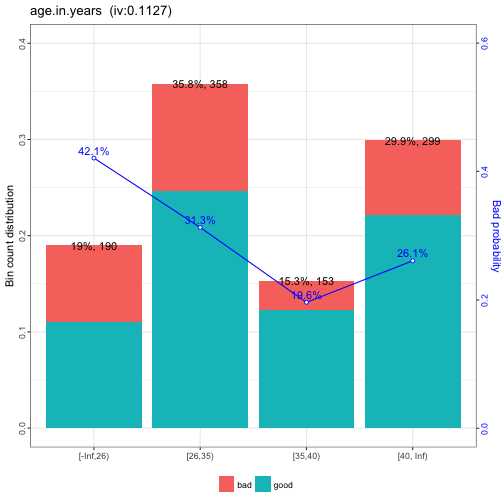
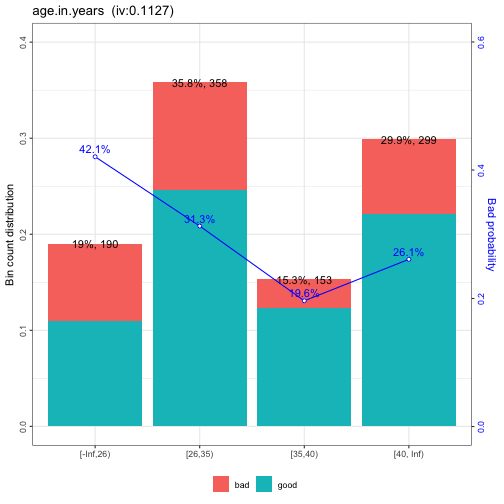
L

diff --git a/slide/20171115scorecard/index.html b/slide/20171115scorecard/index.html
@@ -388,10 +388,10 @@ lapply(dt_list, dim)
 
 ```
 ## $train
-## [1] 700  15
+## [1] 683  15
 ## 
 ## $test
-## [1] 300  15
+## [1] 317  15
 ```
 
 ---
@@ -585,14 +585,14 @@ test_woe = woebin_ply(
 
 ```
 ##    age.in.years age.in.years_woe
-## 1:           30          0.06047
-## 2:           37         -0.56369
-## 3:           23          0.52884
-## 4:           25          0.52884
-## 5:           34          0.06047
-## 6:           50         -0.19416
-## 7:           33          0.06047
-## 8:           32          0.06047
+## 1:           22          0.52884
+## 2:           49         -0.19416
+## 3:           45         -0.19416
+## 4:           53         -0.19416
+## 5:           35         -0.56369
+## 6:           61         -0.19416
+## 7:           28          0.06047
+## 8:           24          0.52884
 ```
 
 ]
@@ -684,47 +684,47 @@ summary(m2)$coefficients
 
 ```
 ##                                                         Estimate
-## (Intercept)                                              -0.8556
-## status.of.existing.checking.account_woe                   0.6375
-## duration.in.month_woe                                     0.5348
-## credit.history_woe                                        0.4941
-## purpose_woe                                               1.0876
-## credit.amount_woe                                         1.0194
-## savings.account.and.bonds_woe                             0.9080
-## present.employment.since_woe                              0.6838
-## installment.rate.in.percentage.of.disposable.income_woe   2.1865
-## personal.status.and.sex_woe                               1.3552
-## property_woe                                              0.8475
-## age.in.years_woe                                          0.9261
-## other.installment.plans_woe                               0.6230
+## (Intercept)                                              -0.8544
+## status.of.existing.checking.account_woe                   0.8874
+## duration.in.month_woe                                     0.7021
+## credit.history_woe                                        0.6365
+## purpose_woe                                               0.7846
+## credit.amount_woe                                         0.8315
+## savings.account.and.bonds_woe                             1.1176
+## present.employment.since_woe                              0.6723
+## installment.rate.in.percentage.of.disposable.income_woe   1.8997
+## other.debtors.or.guarantors_woe                           1.7937
+## age.in.years_woe                                          0.6365
+## other.installment.plans_woe                               0.9320
+## housing_woe                                               0.5385
 ##                                                         Std. Error z value
-## (Intercept)                                                0.09994  -8.561
-## status.of.existing.checking.account_woe                    0.12678   5.028
-## duration.in.month_woe                                      0.20009   2.673
-## credit.history_woe                                         0.18001   2.745
-## purpose_woe                                                0.26026   4.179
-## credit.amount_woe                                          0.25486   4.000
-## savings.account.and.bonds_woe                              0.24003   3.783
-## present.employment.since_woe                               0.33525   2.040
-## installment.rate.in.percentage.of.disposable.income_woe    0.72834   3.002
-## personal.status.and.sex_woe                                0.49037   2.764
-## property_woe                                               0.31028   2.731
-## age.in.years_woe                                           0.30772   3.009
-## other.installment.plans_woe                                0.39668   1.571
+## (Intercept)                                                 0.1030  -8.295
+## status.of.existing.checking.account_woe                     0.1360   6.524
+## duration.in.month_woe                                       0.2000   3.511
+## credit.history_woe                                          0.1944   3.274
+## purpose_woe                                                 0.2595   3.024
+## credit.amount_woe                                           0.2553   3.257
+## savings.account.and.bonds_woe                               0.2479   4.508
+## present.employment.since_woe                                0.3528   1.906
+## installment.rate.in.percentage.of.disposable.income_woe     0.7332   2.591
+## other.debtors.or.guarantors_woe                             0.7672   2.338
+## age.in.years_woe                                            0.2996   2.125
+## other.installment.plans_woe                                 0.4103   2.272
+## housing_woe                                                 0.3434   1.568
 ##                                                          Pr(&gt;|z|)
-## (Intercept)                                             1.115e-17
-## status.of.existing.checking.account_woe                 4.945e-07
-## duration.in.month_woe                                   7.523e-03
-## credit.history_woe                                      6.055e-03
-## purpose_woe                                             2.928e-05
-## credit.amount_woe                                       6.341e-05
-## savings.account.and.bonds_woe                           1.551e-04
-## present.employment.since_woe                            4.139e-02
-## installment.rate.in.percentage.of.disposable.income_woe 2.682e-03
-## personal.status.and.sex_woe                             5.718e-03
-## property_woe                                            6.306e-03
-## age.in.years_woe                                        2.617e-03
-## other.installment.plans_woe                             1.163e-01
+## (Intercept)                                             1.089e-16
+## status.of.existing.checking.account_woe                 6.853e-11
+## duration.in.month_woe                                   4.466e-04
+## credit.history_woe                                      1.061e-03
+## purpose_woe                                             2.495e-03
+## credit.amount_woe                                       1.126e-03
+## savings.account.and.bonds_woe                           6.531e-06
+## present.employment.since_woe                            5.670e-02
+## installment.rate.in.percentage.of.disposable.income_woe 9.570e-03
+## other.debtors.or.guarantors_woe                         1.939e-02
+## age.in.years_woe                                        3.362e-02
+## other.installment.plans_woe                             2.311e-02
+## housing_woe                                             1.169e-01
 ```
 
 ---
@@ -909,18 +909,12 @@ data.table::rbindlist(card, fill=TRUE)[c(1,37:40),1:4]
 ```
 
 ```
-##        variable                                                  bin
-## 1:   basepoints                                                   NA
-## 2:     property car or other, not in attribute Savings account/bonds
-## 3:     property                                unknown / no property
-## 4: age.in.years                                            [-Inf,26)
-## 5: age.in.years                                              [26,35)
-##        woe points
-## 1:      NA    449
-## 2: 0.03419     -2
-## 3: 0.58608    -36
-## 4: 0.52884    -35
-## 5: 0.06047     -4
+##                   variable           bin     woe points
+## 1:              basepoints          &lt;NA&gt;      NA    449
+## 2:            age.in.years     [40, Inf) -0.1942      9
+## 3: other.installment.plans bank%,%stores  0.4776    -32
+## 4: other.installment.plans          none -0.1212      8
+## 5:                 housing          rent  0.4044    -16
 ```
 
 ---
@@ -937,8 +931,8 @@ str(train_score)
 ```
 
 ```
-## Classes 'data.table' and 'data.frame':	700 obs. of  1 variable:
-##  $ score: num  533 673 541 487 451 478 450 494 601 456 ...
+## Classes 'data.table' and 'data.frame':	683 obs. of  1 variable:
+##  $ score: num  334 614 433 318 546 698 351 217 489 416 ...
 ##  - attr(*, ".internal.selfref")=&lt;externalptr&gt;
 ```
 
@@ -949,20 +943,20 @@ str(train_score2)
 ```
 
 ```
-## Classes 'data.table' and 'data.frame':	700 obs. of  13 variables:
-##  $ status.of.existing.checking.account_points                : num  54 19 -28 19 54 54 -28 54 54 54 ...
-##  $ duration.in.month_points                                  : num  -20 13 51 13 -20 -4 -4 -44 13 13 ...
-##  $ credit.history_points                                     : num  26 -3 -3 -3 26 -44 26 -3 -3 -3 ...
-##  $ purpose_points                                            : num  63 32 63 32 -22 -22 32 32 32 -22 ...
-##  $ credit.amount_points                                      : num  -86 19 -2 19 -29 54 -2 -29 19 -2 ...
-##  $ savings.account.and.bonds_points                          : num  50 50 50 -18 -18 -18 -18 50 -18 -18 ...
-##  $ present.employment.since_points                           : num  -2 12 -21 -21 12 19 -2 12 -2 -2 ...
-##  $ installment.rate.in.percentage.of.disposable.income_points: num  -16 25 40 25 -16 -16 -16 -16 25 -16 ...
-##  $ personal.status.and.sex_points                            : num  16 16 -26 -26 16 16 14 16 16 -26 ...
-##  $ property_points                                           : num  -2 -2 -2 28 -2 -2 -2 -2 -2 28 ...
-##  $ age.in.years_points                                       : num  -4 38 -35 -35 -4 13 -4 -4 13 -4 ...
-##  $ other.installment.plans_points                            : num  5 5 5 5 5 -21 5 -21 5 5 ...
-##  $ score                                                     : num  533 673 541 487 451 478 450 494 601 456 ...
+## Classes 'data.table' and 'data.frame':	683 obs. of  13 variables:
+##  $ status.of.existing.checking.account_points                : num  -39 75 -39 -39 75 75 -39 -39 -39 -39 ...
+##  $ duration.in.month_points                                  : num  -57 18 -27 -6 -27 18 -6 -57 18 -6 ...
+##  $ credit.history_points                                     : num  -4 34 -4 -4 -4 -4 34 -4 -4 34 ...
+##  $ purpose_points                                            : num  23 -16 -16 -16 -16 23 -16 -16 23 -16 ...
+##  $ credit.amount_points                                      : num  -23 15 -23 -23 -23 15 -23 -23 44 -2 ...
+##  $ savings.account.and.bonds_points                          : num  -22 -22 -22 -22 61 61 -22 -22 -22 -22 ...
+##  $ present.employment.since_points                           : num  -2 19 19 -2 -2 19 -21 -21 -2 11 ...
+##  $ installment.rate.in.percentage.of.disposable.income_points: num  21 21 21 -14 21 21 -14 -14 34 -14 ...
+##  $ other.debtors.or.guarantors_points                        : num  -4 -4 76 -4 -4 -4 -4 -4 -4 -4 ...
+##  $ age.in.years_points                                       : num  -24 9 9 9 26 9 -3 -24 -24 9 ...
+##  $ other.installment.plans_points                            : num  8 8 8 8 8 8 8 8 8 8 ...
+##  $ housing_points                                            : num  8 8 -18 -18 -18 8 8 -16 8 8 ...
+##  $ score                                                     : num  334 614 433 318 546 698 351 217 489 416 ...
 ##  - attr(*, ".internal.selfref")=&lt;externalptr&gt;
 ```
 
@@ -1006,103 +1000,103 @@ str(train_score2)
  &lt;/thead&gt;
 &lt;tbody&gt;
   &lt;tr&gt;
-   &lt;td style="text-align:left;"&gt; [100,250) &lt;/td&gt;
-   &lt;td style="text-align:right;"&gt; 0.0114 &lt;/td&gt;
-   &lt;td style="text-align:right;"&gt; 0.0200 &lt;/td&gt;
-   &lt;td style="text-align:right;"&gt; -0.0086 &lt;/td&gt;
-   &lt;td style="text-align:right;"&gt; -0.5596 &lt;/td&gt;
-   &lt;td style="text-align:right;"&gt; 0.0048 &lt;/td&gt;
-   &lt;td style="text-align:right;"&gt; 0.0333 &lt;/td&gt;
+   &lt;td style="text-align:left;"&gt; [150,250) &lt;/td&gt;
+   &lt;td style="text-align:right;"&gt; 0.0117 &lt;/td&gt;
+   &lt;td style="text-align:right;"&gt; 0.0158 &lt;/td&gt;
+   &lt;td style="text-align:right;"&gt; -0.0041 &lt;/td&gt;
+   &lt;td style="text-align:right;"&gt; -0.2976 &lt;/td&gt;
+   &lt;td style="text-align:right;"&gt; 0.0012 &lt;/td&gt;
+   &lt;td style="text-align:right;"&gt; 0.0311 &lt;/td&gt;
   &lt;/tr&gt;
   &lt;tr&gt;
    &lt;td style="text-align:left;"&gt; [250,300) &lt;/td&gt;
-   &lt;td style="text-align:right;"&gt; 0.0357 &lt;/td&gt;
-   &lt;td style="text-align:right;"&gt; 0.0267 &lt;/td&gt;
-   &lt;td style="text-align:right;"&gt; 0.0090 &lt;/td&gt;
-   &lt;td style="text-align:right;"&gt; 0.2921 &lt;/td&gt;
-   &lt;td style="text-align:right;"&gt; 0.0026 &lt;/td&gt;
-   &lt;td style="text-align:right;"&gt; 0.0333 &lt;/td&gt;
+   &lt;td style="text-align:right;"&gt; 0.0410 &lt;/td&gt;
+   &lt;td style="text-align:right;"&gt; 0.0347 &lt;/td&gt;
+   &lt;td style="text-align:right;"&gt; 0.0063 &lt;/td&gt;
+   &lt;td style="text-align:right;"&gt; 0.1667 &lt;/td&gt;
+   &lt;td style="text-align:right;"&gt; 0.0010 &lt;/td&gt;
+   &lt;td style="text-align:right;"&gt; 0.0311 &lt;/td&gt;
   &lt;/tr&gt;
   &lt;tr&gt;
    &lt;td style="text-align:left;"&gt; [300,350) &lt;/td&gt;
-   &lt;td style="text-align:right;"&gt; 0.0914 &lt;/td&gt;
-   &lt;td style="text-align:right;"&gt; 0.0633 &lt;/td&gt;
-   &lt;td style="text-align:right;"&gt; 0.0281 &lt;/td&gt;
-   &lt;td style="text-align:right;"&gt; 0.3671 &lt;/td&gt;
-   &lt;td style="text-align:right;"&gt; 0.0103 &lt;/td&gt;
-   &lt;td style="text-align:right;"&gt; 0.0333 &lt;/td&gt;
+   &lt;td style="text-align:right;"&gt; 0.0849 &lt;/td&gt;
+   &lt;td style="text-align:right;"&gt; 0.0883 &lt;/td&gt;
+   &lt;td style="text-align:right;"&gt; -0.0034 &lt;/td&gt;
+   &lt;td style="text-align:right;"&gt; -0.0394 &lt;/td&gt;
+   &lt;td style="text-align:right;"&gt; 0.0001 &lt;/td&gt;
+   &lt;td style="text-align:right;"&gt; 0.0311 &lt;/td&gt;
   &lt;/tr&gt;
   &lt;tr&gt;
    &lt;td style="text-align:left;"&gt; [350,400) &lt;/td&gt;
-   &lt;td style="text-align:right;"&gt; 0.1100 &lt;/td&gt;
-   &lt;td style="text-align:right;"&gt; 0.1467 &lt;/td&gt;
-   &lt;td style="text-align:right;"&gt; -0.0367 &lt;/td&gt;
-   &lt;td style="text-align:right;"&gt; -0.2877 &lt;/td&gt;
-   &lt;td style="text-align:right;"&gt; 0.0105 &lt;/td&gt;
-   &lt;td style="text-align:right;"&gt; 0.0333 &lt;/td&gt;
+   &lt;td style="text-align:right;"&gt; 0.1420 &lt;/td&gt;
+   &lt;td style="text-align:right;"&gt; 0.1356 &lt;/td&gt;
+   &lt;td style="text-align:right;"&gt; 0.0064 &lt;/td&gt;
+   &lt;td style="text-align:right;"&gt; 0.0459 &lt;/td&gt;
+   &lt;td style="text-align:right;"&gt; 0.0003 &lt;/td&gt;
+   &lt;td style="text-align:right;"&gt; 0.0311 &lt;/td&gt;
   &lt;/tr&gt;
   &lt;tr&gt;
    &lt;td style="text-align:left;"&gt; [400,450) &lt;/td&gt;
-   &lt;td style="text-align:right;"&gt; 0.1786 &lt;/td&gt;
-   &lt;td style="text-align:right;"&gt; 0.1767 &lt;/td&gt;
-   &lt;td style="text-align:right;"&gt; 0.0019 &lt;/td&gt;
-   &lt;td style="text-align:right;"&gt; 0.0107 &lt;/td&gt;
-   &lt;td style="text-align:right;"&gt; 0.0000 &lt;/td&gt;
-   &lt;td style="text-align:right;"&gt; 0.0333 &lt;/td&gt;
+   &lt;td style="text-align:right;"&gt; 0.1552 &lt;/td&gt;
+   &lt;td style="text-align:right;"&gt; 0.1388 &lt;/td&gt;
+   &lt;td style="text-align:right;"&gt; 0.0164 &lt;/td&gt;
+   &lt;td style="text-align:right;"&gt; 0.1117 &lt;/td&gt;
+   &lt;td style="text-align:right;"&gt; 0.0018 &lt;/td&gt;
+   &lt;td style="text-align:right;"&gt; 0.0311 &lt;/td&gt;
   &lt;/tr&gt;
   &lt;tr&gt;
    &lt;td style="text-align:left;"&gt; [450,500) &lt;/td&gt;
-   &lt;td style="text-align:right;"&gt; 0.1586 &lt;/td&gt;
-   &lt;td style="text-align:right;"&gt; 0.1567 &lt;/td&gt;
-   &lt;td style="text-align:right;"&gt; 0.0019 &lt;/td&gt;
-   &lt;td style="text-align:right;"&gt; 0.0121 &lt;/td&gt;
-   &lt;td style="text-align:right;"&gt; 0.0000 &lt;/td&gt;
-   &lt;td style="text-align:right;"&gt; 0.0333 &lt;/td&gt;
+   &lt;td style="text-align:right;"&gt; 0.1508 &lt;/td&gt;
+   &lt;td style="text-align:right;"&gt; 0.1577 &lt;/td&gt;
+   &lt;td style="text-align:right;"&gt; -0.0069 &lt;/td&gt;
+   &lt;td style="text-align:right;"&gt; -0.0449 &lt;/td&gt;
+   &lt;td style="text-align:right;"&gt; 0.0003 &lt;/td&gt;
+   &lt;td style="text-align:right;"&gt; 0.0311 &lt;/td&gt;
   &lt;/tr&gt;
   &lt;tr&gt;
    &lt;td style="text-align:left;"&gt; [500,550) &lt;/td&gt;
-   &lt;td style="text-align:right;"&gt; 0.1657 &lt;/td&gt;
-   &lt;td style="text-align:right;"&gt; 0.1700 &lt;/td&gt;
-   &lt;td style="text-align:right;"&gt; -0.0043 &lt;/td&gt;
-   &lt;td style="text-align:right;"&gt; -0.0255 &lt;/td&gt;
-   &lt;td style="text-align:right;"&gt; 0.0001 &lt;/td&gt;
-   &lt;td style="text-align:right;"&gt; 0.0333 &lt;/td&gt;
+   &lt;td style="text-align:right;"&gt; 0.1259 &lt;/td&gt;
+   &lt;td style="text-align:right;"&gt; 0.1672 &lt;/td&gt;
+   &lt;td style="text-align:right;"&gt; -0.0413 &lt;/td&gt;
+   &lt;td style="text-align:right;"&gt; -0.2835 &lt;/td&gt;
+   &lt;td style="text-align:right;"&gt; 0.0117 &lt;/td&gt;
+   &lt;td style="text-align:right;"&gt; 0.0311 &lt;/td&gt;
   &lt;/tr&gt;
   &lt;tr&gt;
    &lt;td style="text-align:left;"&gt; [550,600) &lt;/td&gt;
-   &lt;td style="text-align:right;"&gt; 0.1143 &lt;/td&gt;
-   &lt;td style="text-align:right;"&gt; 0.1133 &lt;/td&gt;
-   &lt;td style="text-align:right;"&gt; 0.0010 &lt;/td&gt;
-   &lt;td style="text-align:right;"&gt; 0.0084 &lt;/td&gt;
-   &lt;td style="text-align:right;"&gt; 0.0000 &lt;/td&gt;
-   &lt;td style="text-align:right;"&gt; 0.0333 &lt;/td&gt;
+   &lt;td style="text-align:right;"&gt; 0.1362 &lt;/td&gt;
+   &lt;td style="text-align:right;"&gt; 0.1041 &lt;/td&gt;
+   &lt;td style="text-align:right;"&gt; 0.0321 &lt;/td&gt;
+   &lt;td style="text-align:right;"&gt; 0.2685 &lt;/td&gt;
+   &lt;td style="text-align:right;"&gt; 0.0086 &lt;/td&gt;
+   &lt;td style="text-align:right;"&gt; 0.0311 &lt;/td&gt;
   &lt;/tr&gt;
   &lt;tr&gt;
    &lt;td style="text-align:left;"&gt; [600,650) &lt;/td&gt;
-   &lt;td style="text-align:right;"&gt; 0.0729 &lt;/td&gt;
-   &lt;td style="text-align:right;"&gt; 0.0767 &lt;/td&gt;
-   &lt;td style="text-align:right;"&gt; -0.0038 &lt;/td&gt;
-   &lt;td style="text-align:right;"&gt; -0.0510 &lt;/td&gt;
-   &lt;td style="text-align:right;"&gt; 0.0002 &lt;/td&gt;
-   &lt;td style="text-align:right;"&gt; 0.0333 &lt;/td&gt;
+   &lt;td style="text-align:right;"&gt; 0.0878 &lt;/td&gt;
+   &lt;td style="text-align:right;"&gt; 0.0789 &lt;/td&gt;
+   &lt;td style="text-align:right;"&gt; 0.0090 &lt;/td&gt;
+   &lt;td style="text-align:right;"&gt; 0.1079 &lt;/td&gt;
+   &lt;td style="text-align:right;"&gt; 0.0010 &lt;/td&gt;
+   &lt;td style="text-align:right;"&gt; 0.0311 &lt;/td&gt;
   &lt;/tr&gt;
   &lt;tr&gt;
    &lt;td style="text-align:left;"&gt; [650,700) &lt;/td&gt;
-   &lt;td style="text-align:right;"&gt; 0.0486 &lt;/td&gt;
-   &lt;td style="text-align:right;"&gt; 0.0433 &lt;/td&gt;
-   &lt;td style="text-align:right;"&gt; 0.0052 &lt;/td&gt;
-   &lt;td style="text-align:right;"&gt; 0.1141 &lt;/td&gt;
-   &lt;td style="text-align:right;"&gt; 0.0006 &lt;/td&gt;
-   &lt;td style="text-align:right;"&gt; 0.0333 &lt;/td&gt;
+   &lt;td style="text-align:right;"&gt; 0.0469 &lt;/td&gt;
+   &lt;td style="text-align:right;"&gt; 0.0631 &lt;/td&gt;
+   &lt;td style="text-align:right;"&gt; -0.0162 &lt;/td&gt;
+   &lt;td style="text-align:right;"&gt; -0.2976 &lt;/td&gt;
+   &lt;td style="text-align:right;"&gt; 0.0048 &lt;/td&gt;
+   &lt;td style="text-align:right;"&gt; 0.0311 &lt;/td&gt;
   &lt;/tr&gt;
   &lt;tr&gt;
    &lt;td style="text-align:left;"&gt; [700,800) &lt;/td&gt;
-   &lt;td style="text-align:right;"&gt; 0.0129 &lt;/td&gt;
-   &lt;td style="text-align:right;"&gt; 0.0067 &lt;/td&gt;
-   &lt;td style="text-align:right;"&gt; 0.0062 &lt;/td&gt;
-   &lt;td style="text-align:right;"&gt; 0.6568 &lt;/td&gt;
-   &lt;td style="text-align:right;"&gt; 0.0041 &lt;/td&gt;
-   &lt;td style="text-align:right;"&gt; 0.0333 &lt;/td&gt;
+   &lt;td style="text-align:right;"&gt; 0.0176 &lt;/td&gt;
+   &lt;td style="text-align:right;"&gt; 0.0158 &lt;/td&gt;
+   &lt;td style="text-align:right;"&gt; 0.0018 &lt;/td&gt;
+   &lt;td style="text-align:right;"&gt; 0.1079 &lt;/td&gt;
+   &lt;td style="text-align:right;"&gt; 0.0002 &lt;/td&gt;
+   &lt;td style="text-align:right;"&gt; 0.0311 &lt;/td&gt;
   &lt;/tr&gt;
 &lt;/tbody&gt;
 &lt;/table&gt;
@@ -1163,7 +1157,7 @@ psi$psi
 
 ```
 ##    variable     PSI
-## 1:    score 0.03332
+## 1:    score 0.03113
 ```
 ]
 
@@ -1266,14 +1260,14 @@ Email: xie@shichen.name
 &amp;&amp;P(y=0|x)=1-h_\theta(x)
 \end{eqnarray}$$`
 上式可综合写成:
-`$$P(y|x;\theta)=(h_\theta(x))^{y}(h_\theta(x))^{1-y}$$`
+`$$P(y|x;\theta)=(h_\theta(x))^{y}(1-h_\theta(x))^{1-y}$$`
 则似然函数为: 
 `$$\begin{eqnarray}
-L(\theta) = \prod_{i=1}^m{P(y^{(i)}|x^{(i)};\theta)} = \prod_{i=1}^m{(h_\theta(x^{(i)}))^{y^{(i)}}(h_\theta(x^{(i)}))^{1-y^{(i)}}}
+L(\theta) = \prod_{i=1}^m{P(y^{i}|x^{i};\theta)} = \prod_{i=1}^m{(h_\theta(x^{i}))^{y^{i}}(1-h_\theta(x^{i}))^{1-y^{i}}}
 \end{eqnarray}$$`
 对数似然函数为:
 `$$\begin{eqnarray}
-l(\theta) = \ln{L(\theta)} = \sum_{i=1}^m{(y^{(i)}\ln{h_\theta(x^{(i)}})+(1-y^{(i)})\ln{h_\theta(x^{(i)}))}}
+l(\theta) = \ln{L(\theta)} = \sum_{i=1}^m{\bigl[y^{i}\ln{h_\theta(x^{i}})+(1-y^{i})\ln{(1-h_\theta(x^{i}))\bigr]}}
 \end{eqnarray}$$`
 
 &lt;!-- https://blog.csdn.net/ligang_csdn/article/details/53838743 --&gt;
